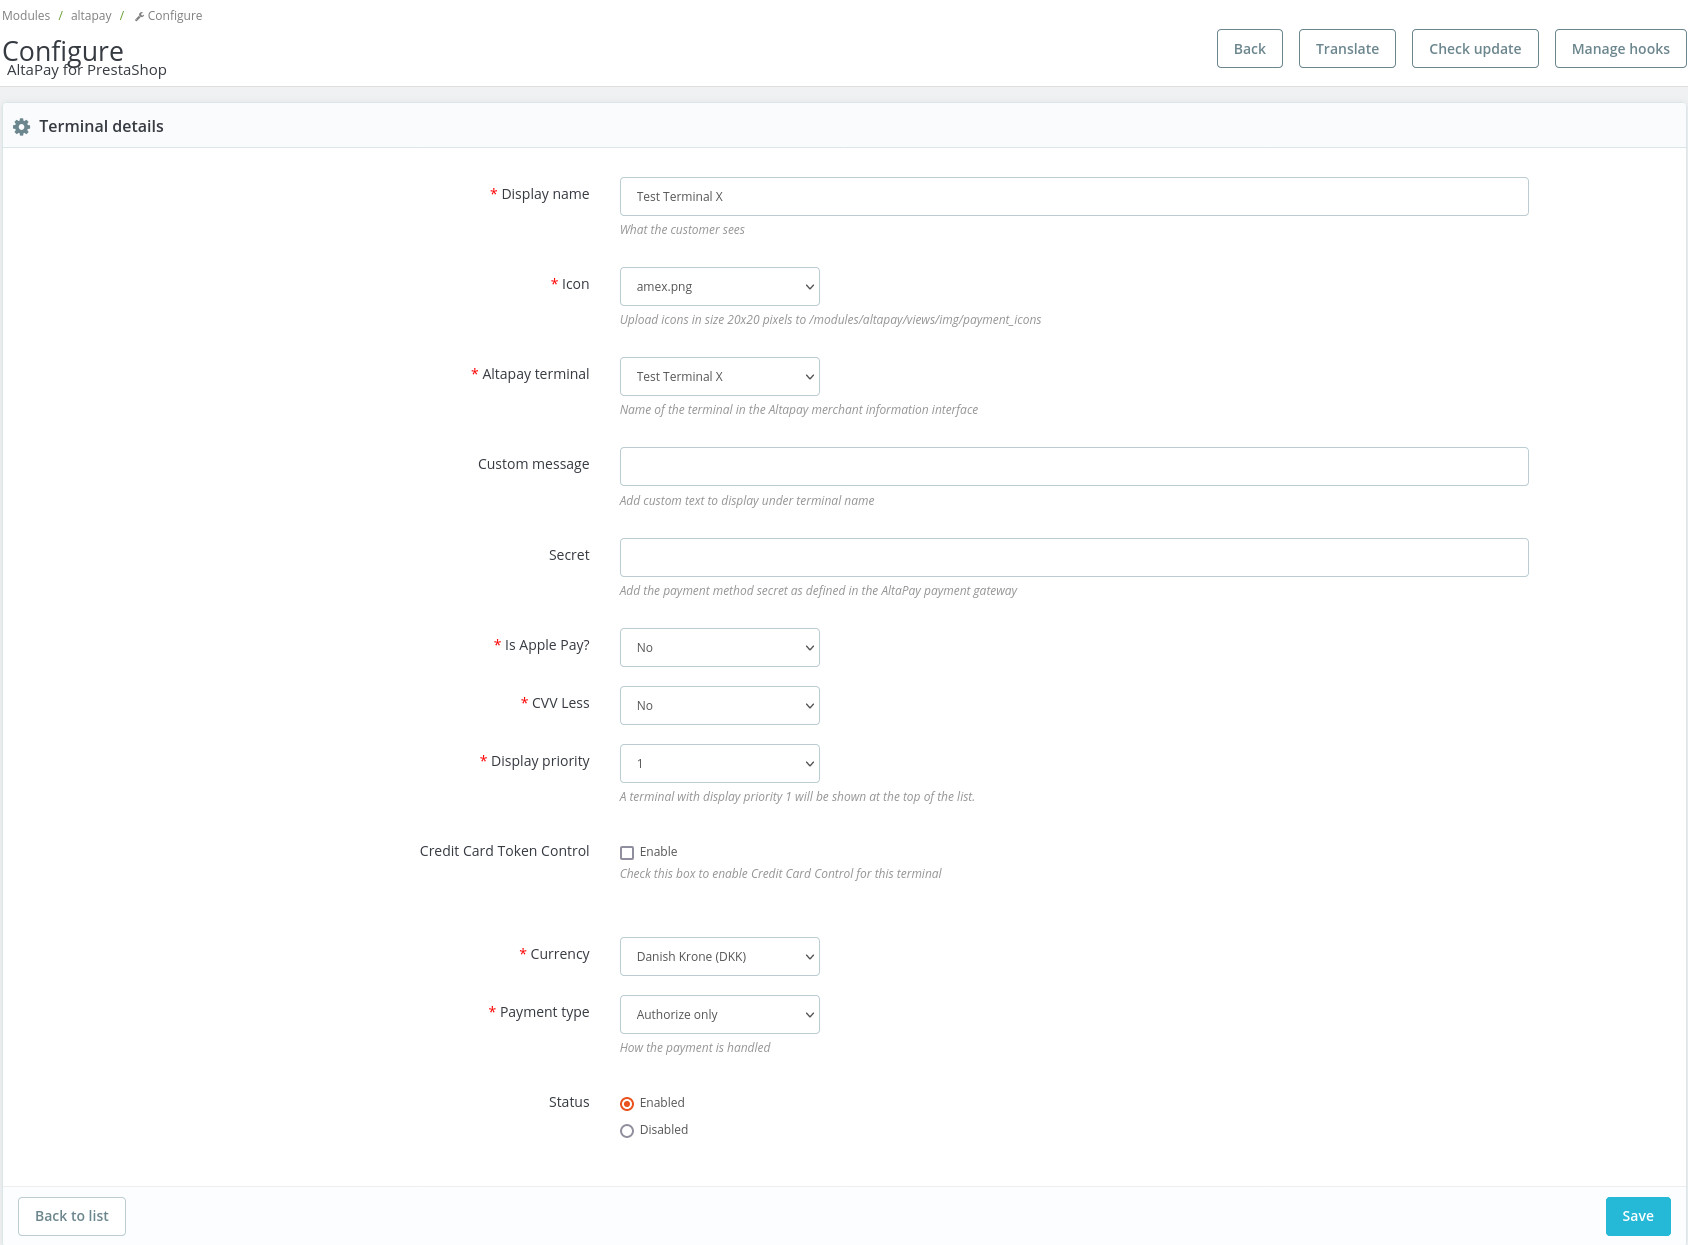
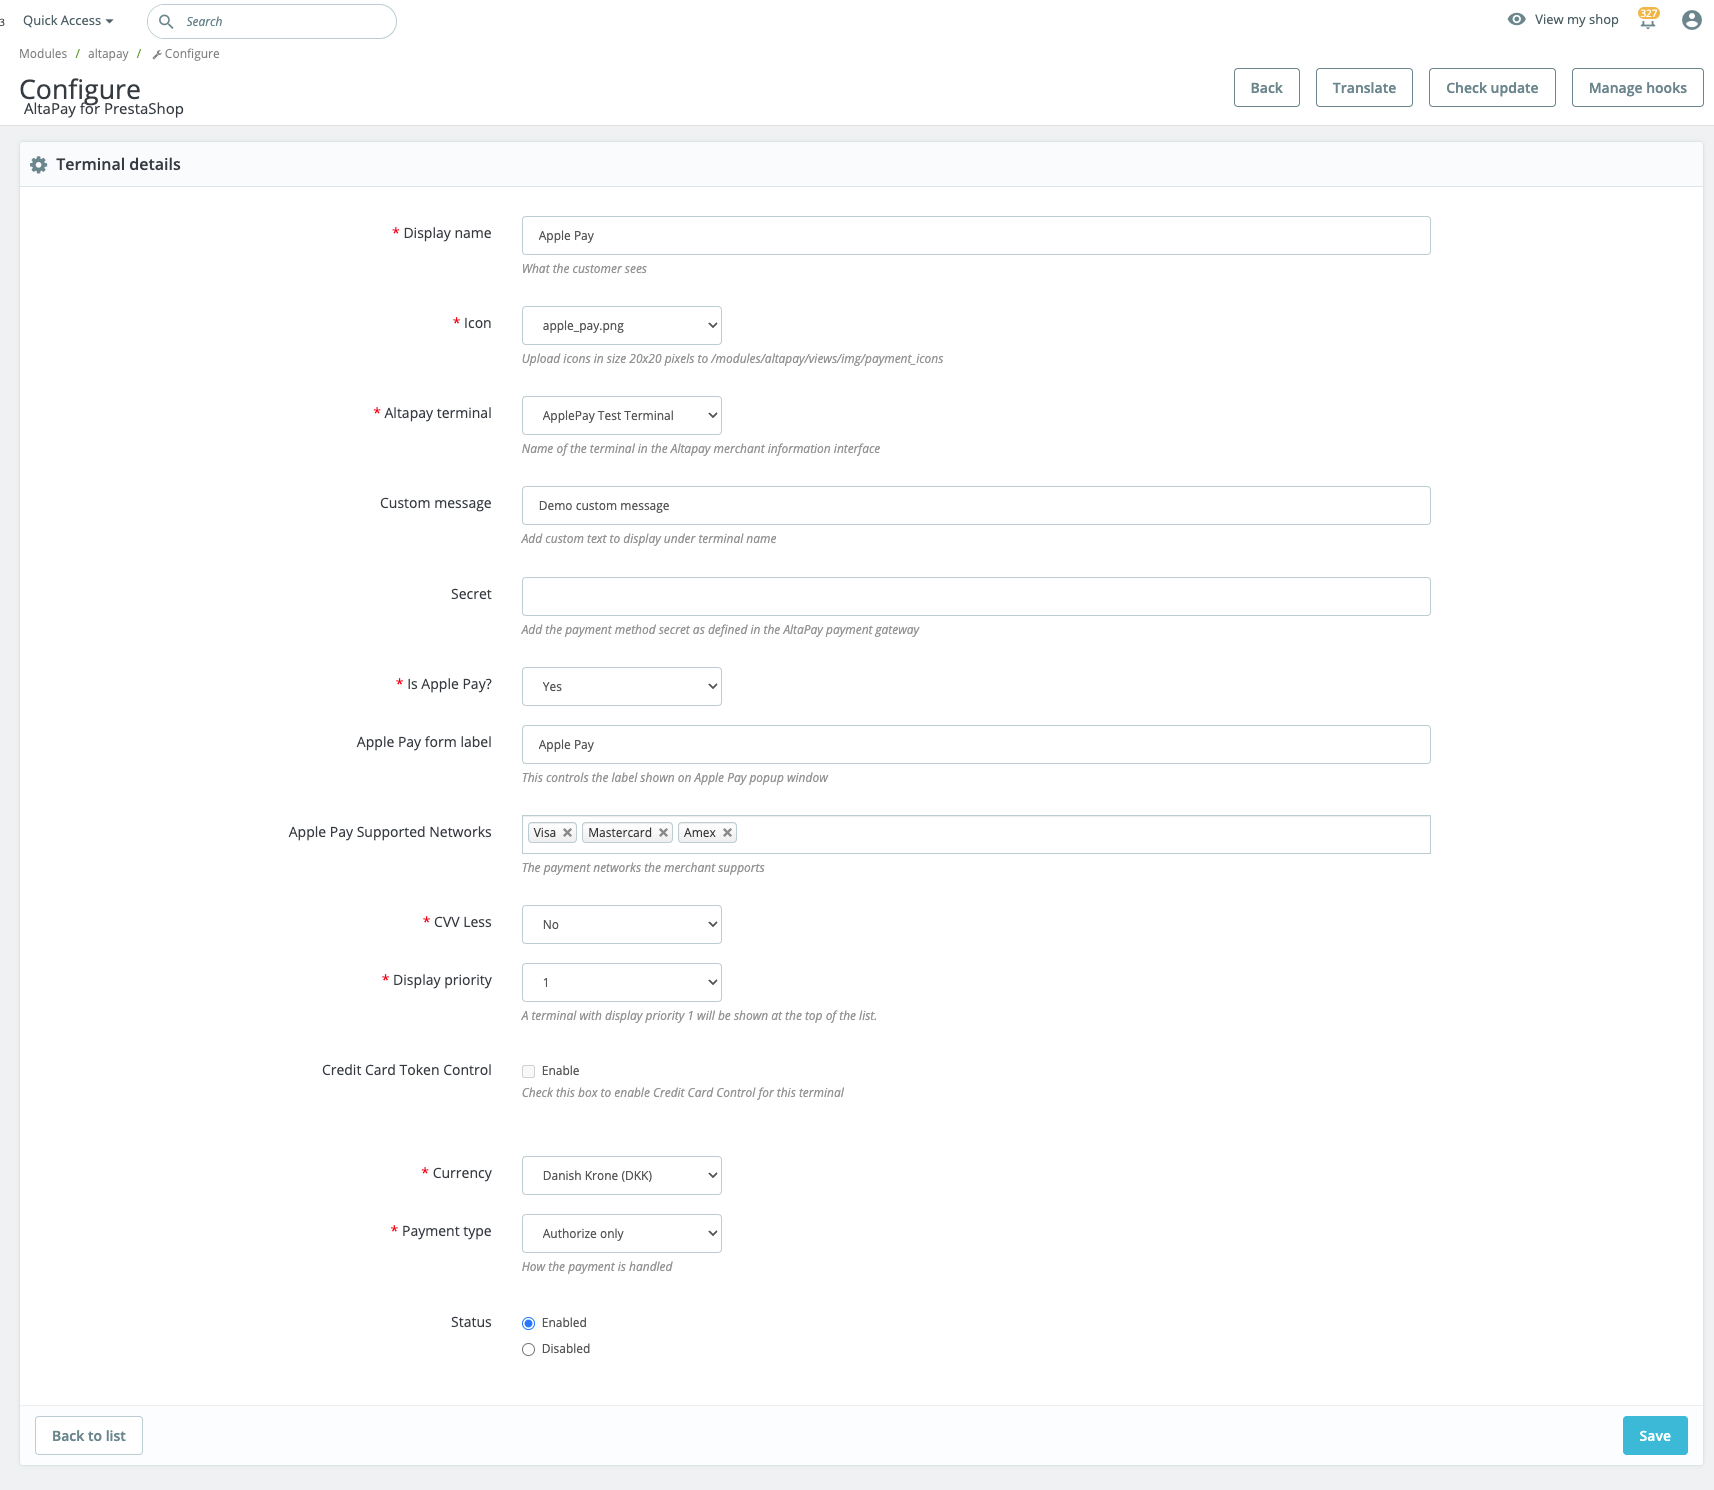
Update terminal configurations screenshot

diff --git a/wiki.md b/wiki.md
@@ -30,16 +30,12 @@ Before configuring the plugin, you need the below information. These can
 be provided by AltaPay.
 
 1.  AltaPay credentials:
-
--   Username
-
--   Password
+      -   Username
+      -   Password
 
 2.  AltaPay gateway information:
-
--   Terminal
-
--   Gateway
+      -   Terminal
+      -   Gateway
 
 ## Installation
 
@@ -81,7 +77,7 @@ Go to ‘Modules and Services’ > ‘Modules And Services’ and click on “Ad
 
 6. When setting up a terminal you must select the icon and name that is going to be shown in the check flow.  The currency must correspond with the currency on the terminal at AltaPay.  The payment type indicates if the money would be captured on reservation (‘Authorize and capture’) or the merchant would have to capture, when delivering the goods.
 
-7. In the optional field 'Custom message', you can add custom message for the customers. e.g. guidelines from Danish Forbrugerombudsmanden.
+7. In the optional field **Custom message**, you can add custom message for the customers. e.g. guidelines from Danish Forbrugerombudsmanden.
 
 8. In the optional field 'Secret', add the payment method secret as defined in the AltaPay payment gateway to enable checksum validation. To disable checksum validation leave it empty.
 
@@ -93,11 +89,15 @@ Go to ‘Modules and Services’ > ‘Modules And Services’ and click on “Ad
    >
    > Apple Pay functionality is supported with Prestashop 1.7 and above.
 
-10. When you have set up your terminals you are ready to process transactions through AltaPay.
+10. Enter value for Apple Pay Form Label.
 
-   ![verify_terminals](Docs/Configuration/prestashop_payment_method_page.jpg)
+11. Select one or more of the payment network values for Apple Pay.
 
-   ![process_transactions](Docs/Configuration/prestashop_credit_card_payment_page.jpg)
+12. When you have set up your terminals you are ready to process transactions through AltaPay.
+
+      ![verify_terminals](Docs/Configuration/prestashop_payment_method_page.jpg)
+
+      ![process_transactions](Docs/Configuration/prestashop_credit_card_payment_page.jpg)
 
 
 ## Subscriptions
@@ -122,7 +122,7 @@ In order to reconcile payments please follow the steps below:
 
    ![prestashop_order_view](Docs/OrderReconciliation/prestashop_order_view.jpg)
 
-Or export the order data to CSV from PrestaShop **SQL Manager** by clicking export button next to the **SQL query Name** `AltaPay Order Reconciliation`.
+   Or export the order data to CSV from PrestaShop **SQL Manager** by clicking export button next to the **SQL query Name** `AltaPay Order Reconciliation`.
    
    ![prestashop_sql_manager](Docs/OrderReconciliation/prestashop_sql_manager.jpg)
    
